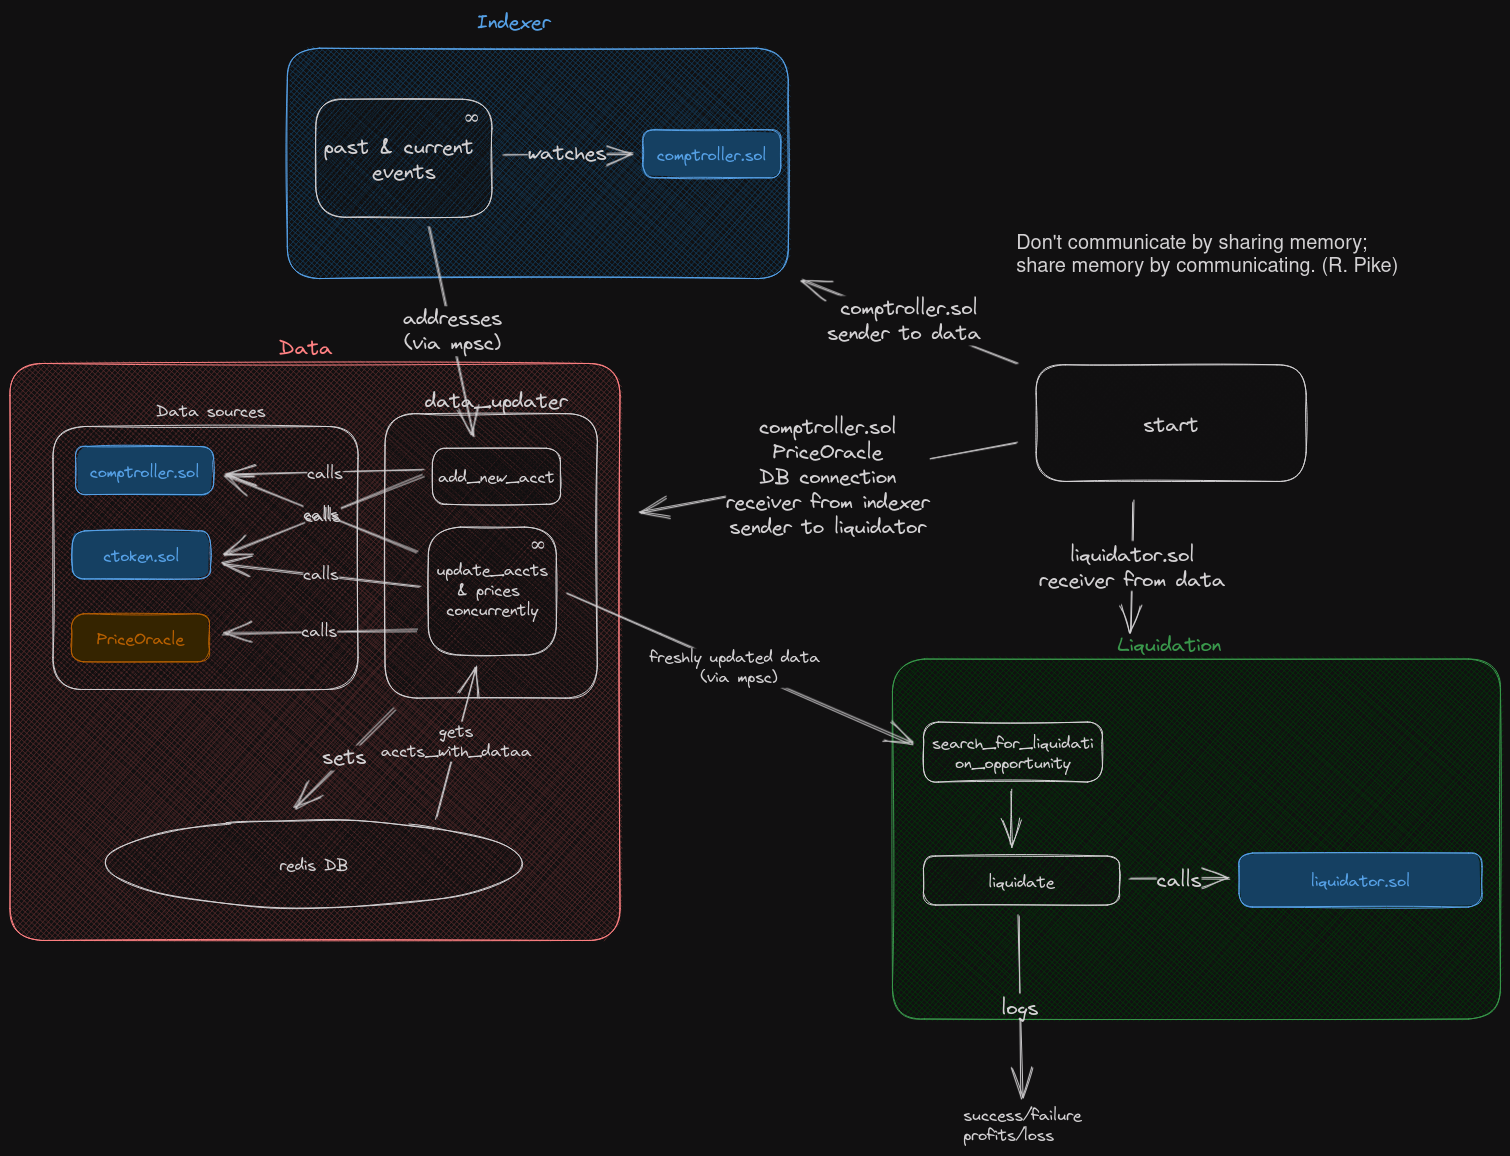
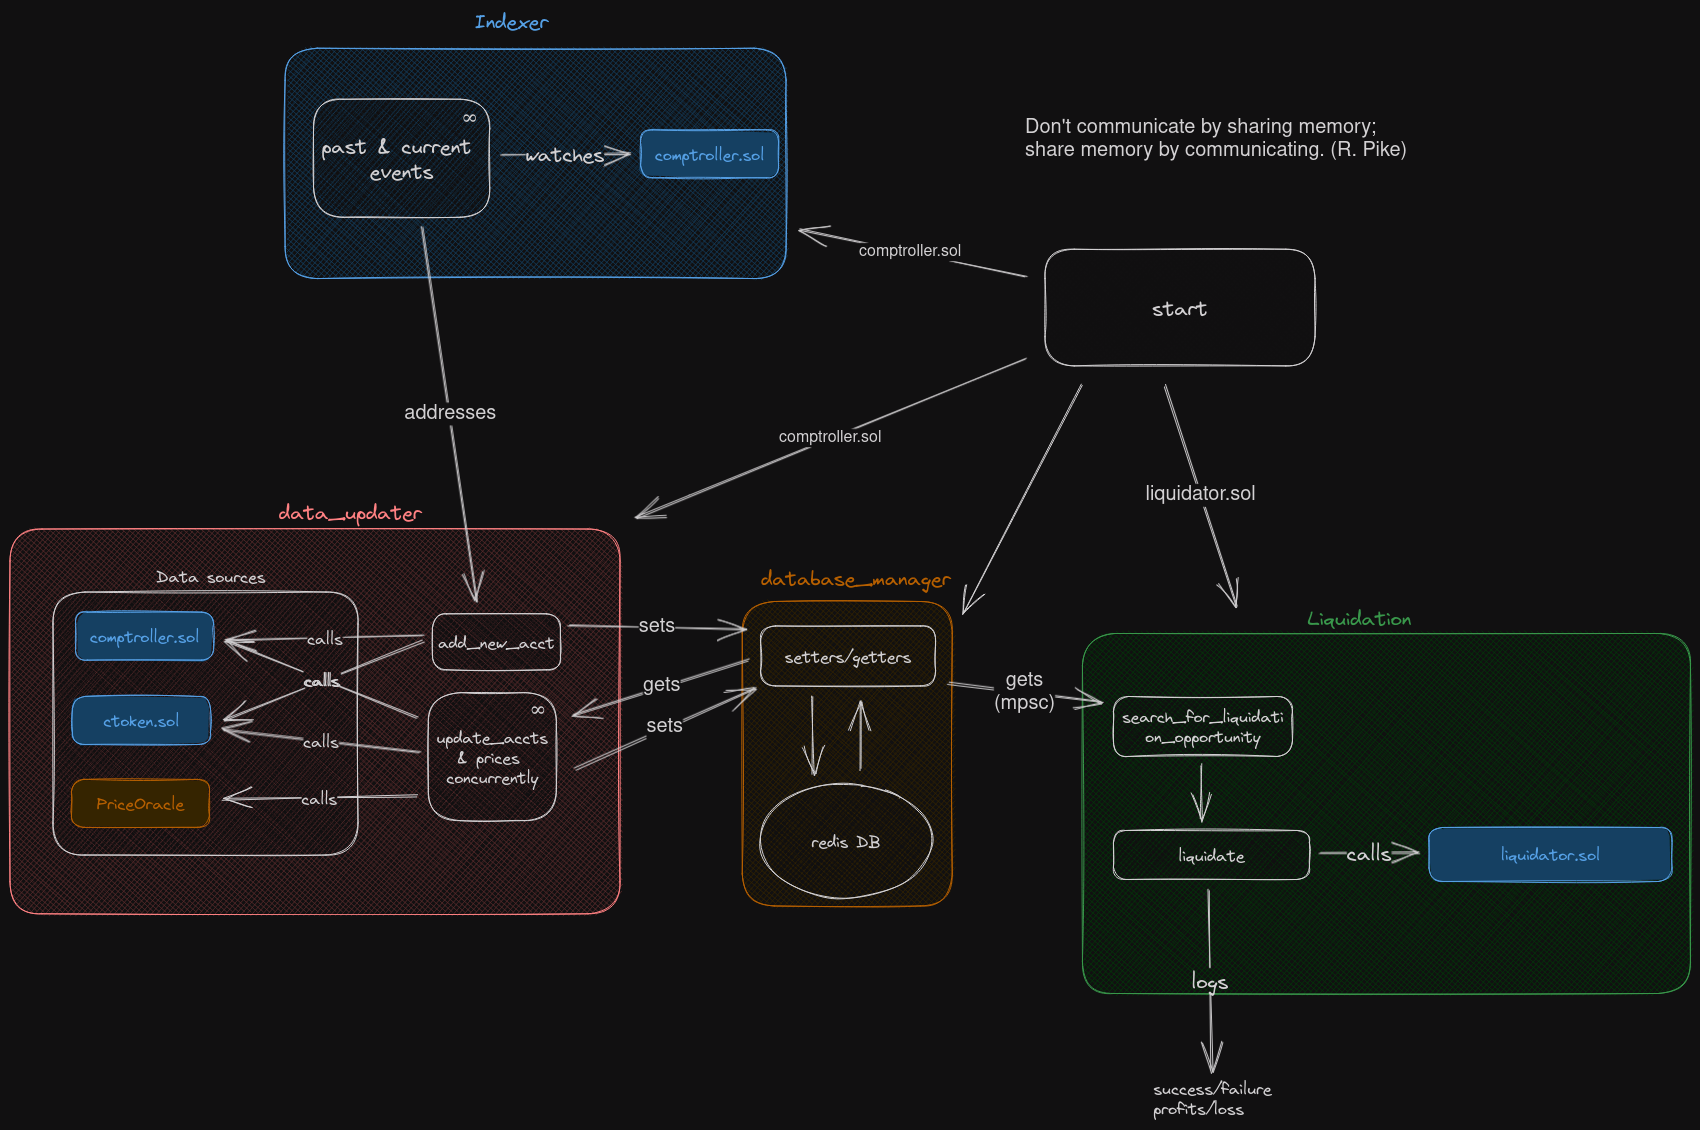
Added new module database_manager

diff --git a/src/main.rs b/src/main.rs
@@ -1,5 +1,6 @@
 mod bindings;
-mod data;
+mod data_updater;
+mod database_manager;
 mod indexer;
 mod liquidation;
 mod types;
@@ -10,9 +11,10 @@ use crate::bindings::{
     erc20_bindings::Erc20,
     liquidator_bindings::Liquidator,
 };
-use crate::types::{account::Account, ctoken::CToken};
+use crate::types::{account::Account, command::Command, ctoken::CToken};
 
-use crate::data::Data;
+use crate::data_updater::DataUpdater;
+use crate::database_manager::DatabaseManager;
 use crate::indexer::Indexer;
 use crate::liquidation::Liquidation;
 
@@ -36,46 +38,56 @@ async fn main() -> eyre::Result<()> {
     let client_for_comptroller = Arc::new(provider);
     let client_for_liquidator = client_for_comptroller.clone();
 
-    // initialize comptroller contracts
+    // initialize contracts
     let comptroller_address: Address = COMPTROLLER_ETH_MAINNET.parse()?;
     let comptroller_for_indexer = Comptroller::new(comptroller_address, client_for_comptroller);
-    let comptroller_for_data = comptroller_for_indexer.clone();
-
-    // intialize liquidator contracts
+    let comptroller_for_data_updater = comptroller_for_indexer.clone();
     let liquidator_address: Address = TEMP_LIQUIDATOR_ETH_MAINNET.parse()?;
     let liquidator = Liquidator::new(liquidator_address, client_for_liquidator);
 
-    // Channel for sending addresses from indexer to data
-    let (indexer_to_data, data_from_indexer): (Sender<Address>, Receiver<Address>) = channel(32);
+    // Channel for sending addresses from indexer to data_updater
+    // TODO: we could set this channel size to 50 to allow for maximum efficiency multicall batching
+    let (sender_to_data_updater, receiver_from_indexer): (Sender<Address>, Receiver<Address>) =
+        channel(32);
 
-    // Channel for sending vector of addresses from data to liquidator
-    let (data_to_liquidator, liquidator_from_data): (
-        Sender<(Vec<Account>, HashMap<Address, CToken>)>,
-        Receiver<(Vec<Account>, HashMap<Address, CToken>)>,
+    let (sender_to_database_manager_from_updater, receiver_from_data_updater): (
+        Sender<Command>,
+        Receiver<Command>,
     ) = channel(32);
 
-    // initialize indexer module
-    let indexer = Indexer::new(indexer_to_data, comptroller_for_indexer);
+    let (sender_to_database_manager_from_liquidation, receiver_from_liquidation): (
+        Sender<Command>,
+        Receiver<Command>,
+    ) = channel(32);
 
-    // initialize data module
-    let data = Data::new(data_to_liquidator, data_from_indexer, comptroller_for_data);
-
-    // initialize liquidation module
-    let mut liquidation = Liquidation::new(liquidator_from_data, liquidator);
+    // initialize modules
+    let indexer = Indexer::new(sender_to_data_updater, comptroller_for_indexer);
+    let mut data_updater = DataUpdater::new(
+        receiver_from_indexer,
+        sender_to_database_manager_from_updater,
+        comptroller_for_data_updater,
+    );
+    let mut database_manager =
+        DatabaseManager::new(receiver_from_liquidation, receiver_from_data_updater);
+    let mut liquidation = Liquidation::new(sender_to_database_manager_from_liquidation, liquidator);
 
     // let it rip
     let indexer_task = tokio::spawn(async move {
         let _ = indexer.run().await;
     });
-    let data_task = tokio::spawn(async move {
-        let _ = data.run().await;
+    let data_updater_task = tokio::spawn(async move {
+        let _ = data_updater.run().await;
+    });
+    let database_manager_task = tokio::spawn(async move {
+        let _ = database_manager.run().await;
     });
     let liquidation_task = tokio::spawn(async move {
         let _ = liquidation.run().await;
     });
 
     indexer_task.await?;
-    data_task.await?;
+    data_updater_task.await?;
+    database_manager_task.await?;
     liquidation_task.await?;
 
     /*  Not sure why these aren't working any more but it's fine since we already generated them.  problem for later

diff --git a/src/liquidation.rs b/src/liquidation.rs
@@ -1,27 +1,27 @@
 use crate::bindings::liquidator_bindings::Liquidator;
-use crate::types::{account::Account, ctoken::CToken};
+use crate::types::{account::Account, command::Command, ctoken::CToken};
 
 use ethers::{
     core::types::{Address, U256},
     providers::{Provider, Ws},
 };
 use std::{collections::HashMap, sync::Arc};
-use tokio::sync::mpsc::{channel, Receiver};
+use tokio::sync::mpsc::{channel, Receiver, Sender};
 
 const CETH_ADDRESS_MAINNET: &str = "0x4Ddc2D193948926D02f9B1fE9e1daa0718270ED5";
 
 pub struct Liquidation {
-    data_from_indexer: Receiver<(Vec<Account>, HashMap<Address, CToken>)>,
+    sender_to_database_manager: Sender<Command>,
     liquidator: Liquidator<Provider<Ws>>,
 }
 
 impl Liquidation {
     pub fn new(
-        data_from_indexer: Receiver<(Vec<Account>, HashMap<Address, CToken>)>,
+        sender_to_database_manager: Sender<Command>,
         liquidator: Liquidator<Provider<Ws>>,
     ) -> Liquidation {
         Liquidation {
-            data_from_indexer,
+            sender_to_database_manager,
             liquidator,
         }
     }
@@ -30,7 +30,7 @@ impl Liquidation {
         println!("Liquidation is running");
 
         // TODO: I probably don't need to pull in the ENTIRE list of ctokens?  maybe it's faster than individual calls to db idk
-        while let Some((accounts, all_ctokens_map)) = self.data_from_indexer.recv().await {
+        /*         while let Some((accounts, all_ctokens_map)) = self.data_from_indexer.recv().await {
             println!("addresses received data from Data");
 
             for account in accounts.iter() {
@@ -53,7 +53,7 @@ impl Liquidation {
                     // using found best seize and repay assets
                 }
             }
-        }
+        } */
     }
 
     fn find_highest_USD_val(

diff --git a/src/data_updater.rs b/src/data_updater.rs
@@ -1,0 +1,61 @@
+mod price_oracle;
+
+use crate::bindings::comptroller_bindings::Comptroller;
+use crate::data_updater::price_oracle::PriceOracle;
+use crate::types::{account::Account, command::Command, ctoken::CToken};
+use ethers::{
+    core::types::Address,
+    providers::{Provider, Ws},
+};
+use std::collections::HashMap;
+use tokio::sync::mpsc::{channel, Receiver, Sender};
+
+pub struct DataUpdater {
+    data_from_indexer: Receiver<Address>,
+    sender_to_database_manager: Sender<Command>,
+    comptroller: Comptroller<Provider<Ws>>,
+    price_oracle: PriceOracle,
+}
+
+impl DataUpdater {
+    pub fn new(
+        data_from_indexer: Receiver<Address>,
+        sender_to_database_manager: Sender<Command>,
+        comptroller: Comptroller<Provider<Ws>>,
+    ) -> DataUpdater {
+        let price_oracle = PriceOracle::new();
+        DataUpdater {
+            data_from_indexer,
+            sender_to_database_manager,
+            comptroller,
+            price_oracle,
+        }
+    }
+
+    pub async fn run(&mut self) -> () {
+        println!("Data_updater is running");
+
+        // start add_new_asset task
+
+        // start update_data task
+    }
+
+    async fn watch_for_new_accounts(&mut self) {
+        while let Some(address) = self.data_from_indexer.recv().await {
+            // call comptroller functions
+            // call ctoken functions
+
+            //
+        }
+    }
+
+    async fn update_all_data() {
+        // get all accounts from db
+        // for each account, update data
+        // save updated data to db
+
+        // get all ctokens from db
+        // for each ctoken, call PriceOracle to get price
+        // save updated data to db
+    }
+}

diff --git a/src/indexer.rs b/src/indexer.rs
@@ -83,6 +83,7 @@ impl Indexer {
                     // send found account to data module
                     println!("GOT A NEW MARKET ENTERED: {}", log);
                     let account_addr: Address = Address::from(log.account);
+                    // default behavior of .send when buffer is full is to wait until there is space
                     //tx.send(account_addr).await.unwrap();
                 }
                 Err(e) => println!("Error reading event: {}", e),
@@ -116,6 +117,7 @@ impl Indexer {
                     // send all found addresses to data module
                     for log in logs {
                         let account_addr: Address = Address::from(log.account);
+                        // default behavior of .send when buffer is full is to wait until there is space
                         //tx.send(account_addr).await.unwrap();
                     }
                 }

diff --git a/src/database_manager.rs b/src/database_manager.rs
@@ -1,0 +1,29 @@
+mod database;
+
+use crate::database_manager::database::Database;
+use crate::types::{command::Command, db_types::DBVal};
+use tokio::sync::mpsc::{channel, Receiver, Sender};
+
+pub struct DatabaseManager {
+    receiver_from_liquidation: Receiver<Command>,
+    receiver_from_data_updater: Receiver<Command>,
+    database: Database,
+}
+
+impl DatabaseManager {
+    pub fn new(
+        receiver_from_liquidation: Receiver<Command>,
+        receiver_from_data_updater: Receiver<Command>,
+    ) -> DatabaseManager {
+        let database = Database::new().unwrap();
+        DatabaseManager {
+            receiver_from_liquidation,
+            receiver_from_data_updater,
+            database,
+        }
+    }
+
+    pub async fn run(&self) -> () {
+        println!("Database_manager is running");
+    }
+}
